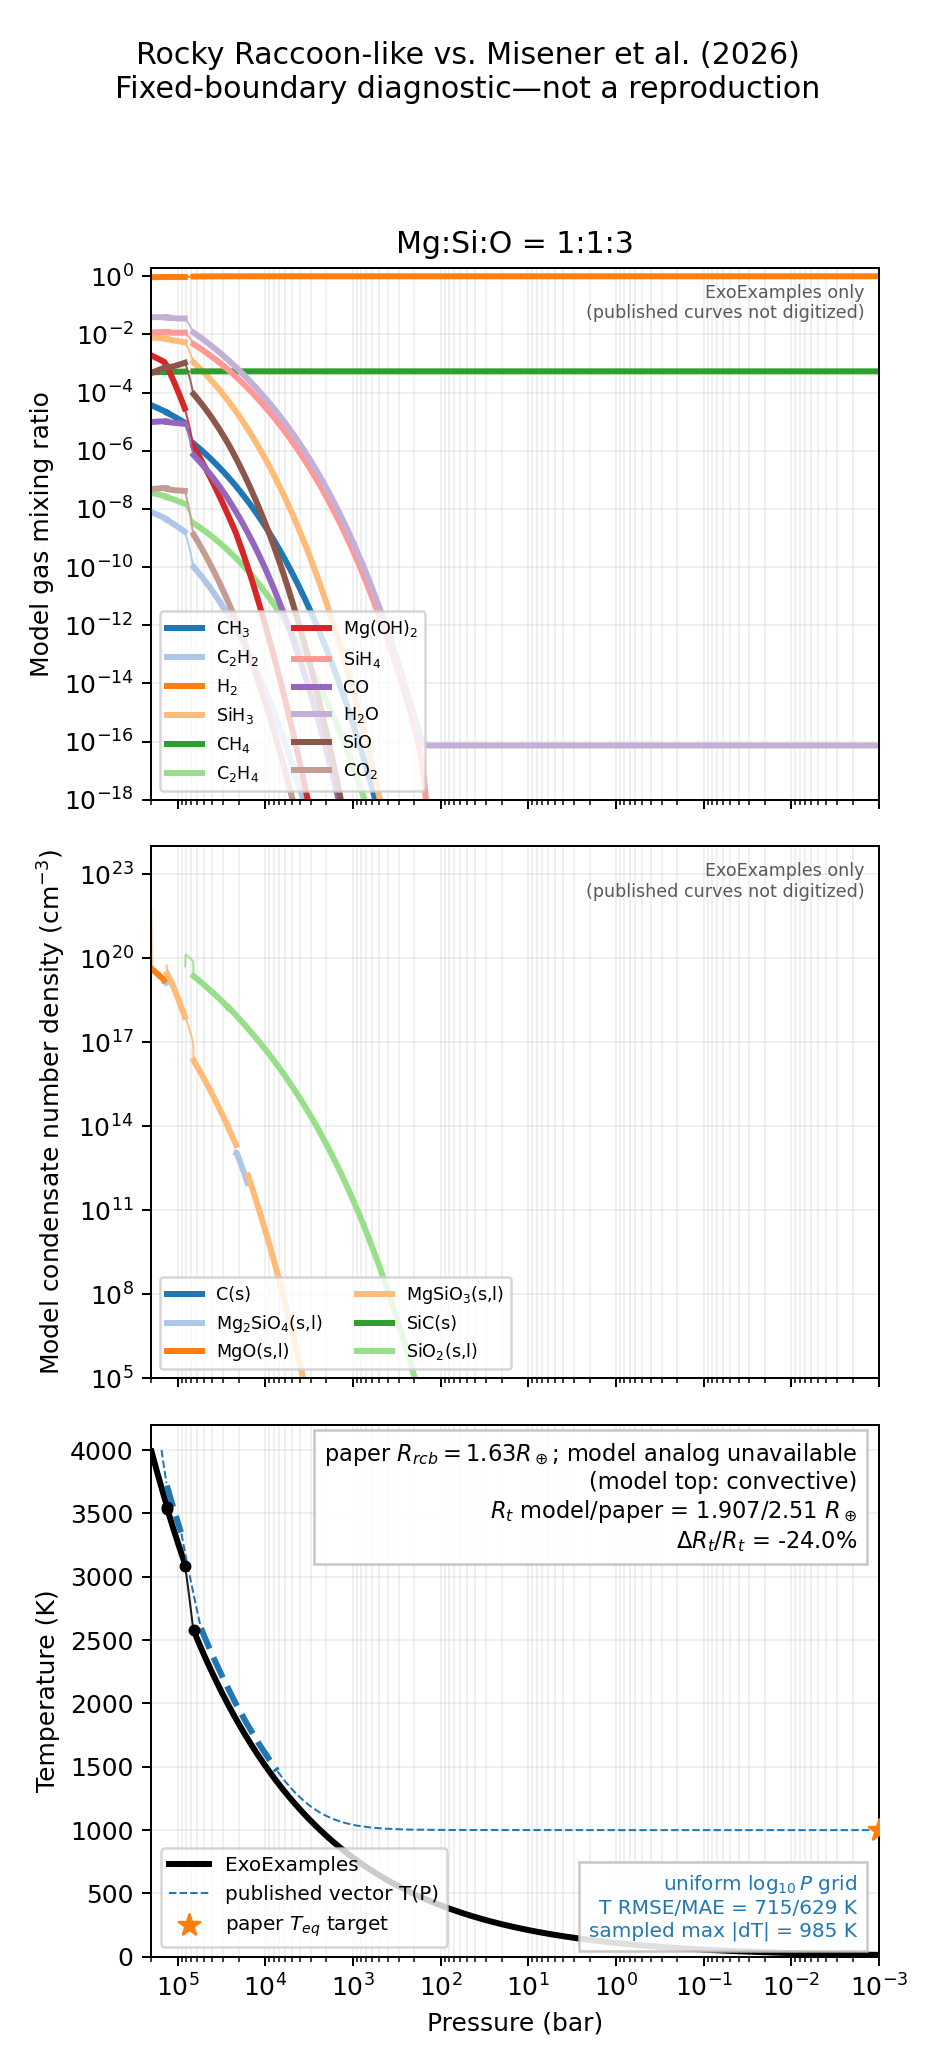
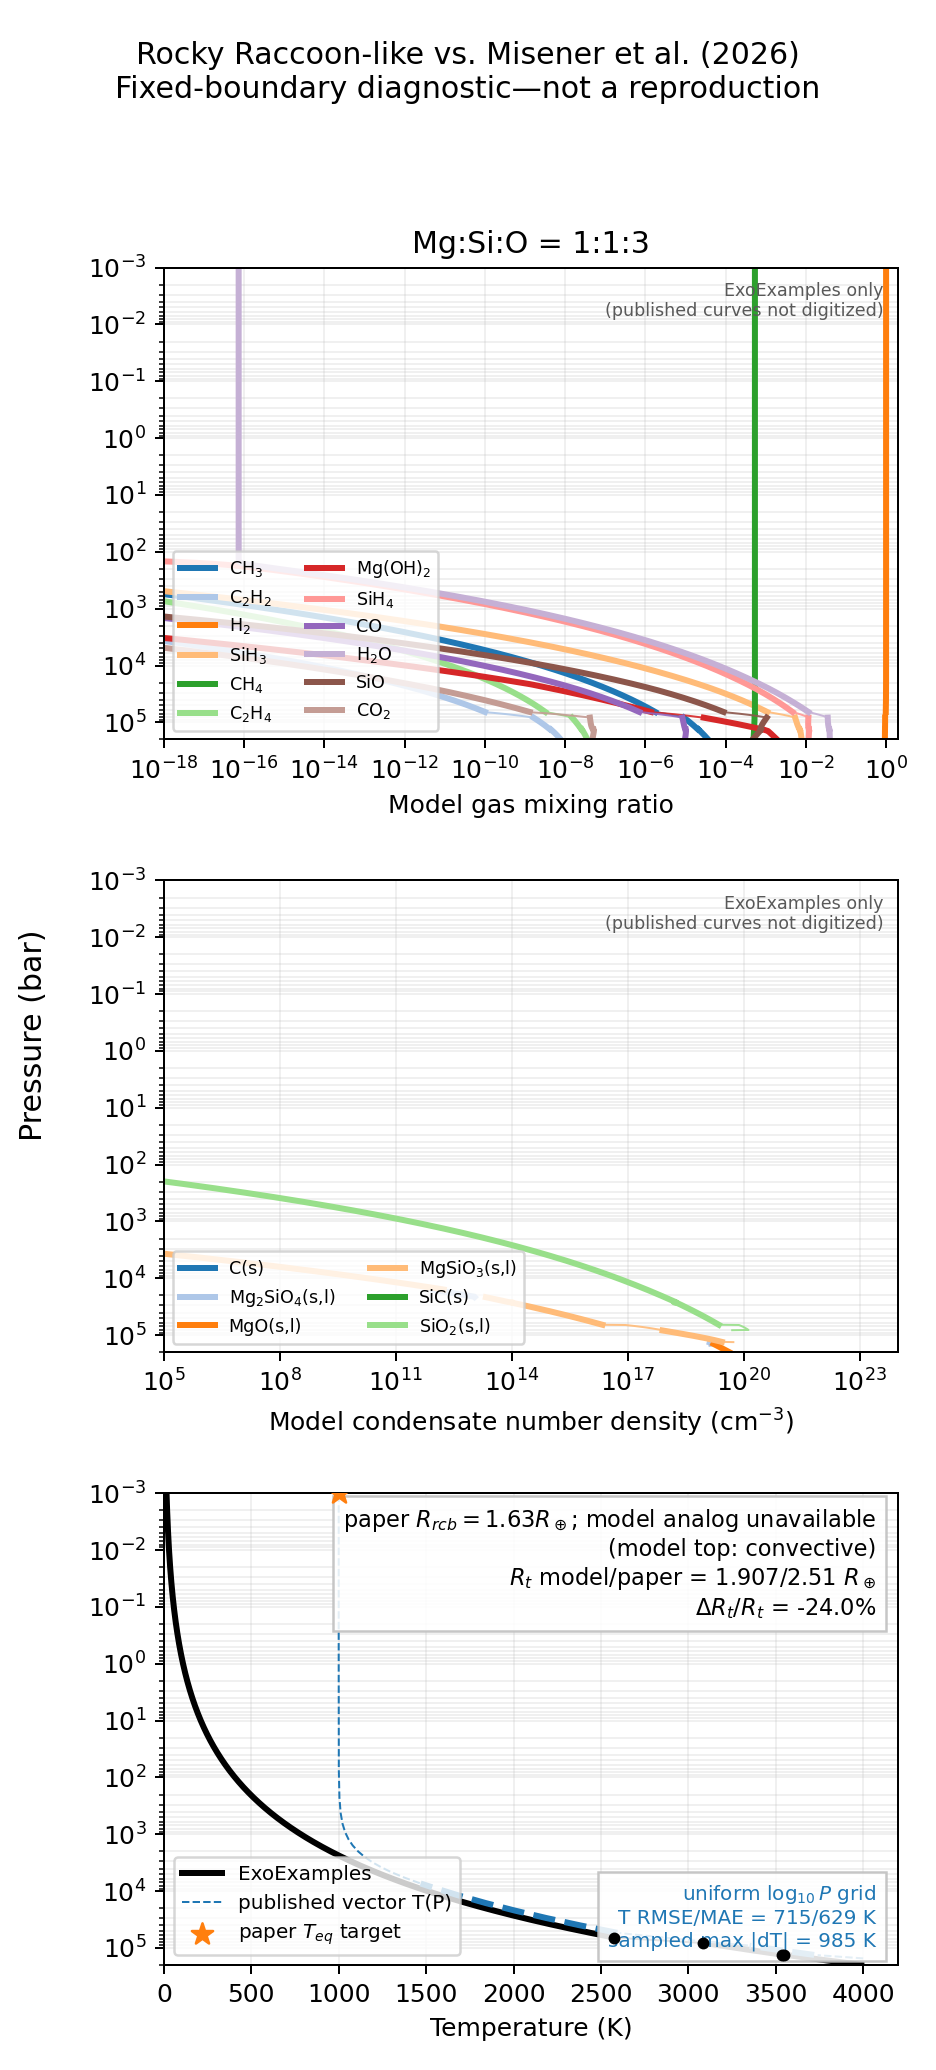
Plot Rocky profiles on vertical pressure axes

diff --git a/examples/rocky_raccoon/paper_comparison.py b/examples/rocky_raccoon/paper_comparison.py
@@ -963,11 +963,11 @@ def _plot_transport_curve(
     label: str,
 ) -> None:
     finite_values = np.asarray(values, dtype=float)
-    axis.plot(pressure, finite_values, color=color, linewidth=0.8, alpha=0.9)
+    axis.plot(finite_values, pressure, color=color, linewidth=0.8, alpha=0.9)
     convective = np.asarray(transport) == "convective"
     axis.plot(
-        pressure,
         np.where(convective, finite_values, np.nan),
+        pressure,
         color=color,
         linewidth=2.4,
         label=label,
@@ -999,8 +999,8 @@ def _plot_published_temperature(
             )
         regime = segment_transport.pop()
         axis.plot(
-            reference.pressure_bar[selected],
             reference.temperature_k[selected],
+            reference.pressure_bar[selected],
             color="tab:blue",
             linewidth=2.4 if regime == "convective" else 0.8,
             linestyle="--",
@@ -1030,8 +1030,10 @@ def plot_comparison(
         column_count,
         figsize=(5.2 * column_count, 11.5),
         squeeze=False,
-        sharex="col",
+        sharey=True,
     )
+    pressure_max = max(float(np.max(run.pressure_bar)) for run in runs)
+    pressure_min = min(float(np.min(run.pressure_bar)) for run in runs)
     color_cycle = tuple(plt.get_cmap("tab20").colors)
     for column, run in enumerate(runs):
         gas_axis, condensate_axis, temperature_axis = axes[:, column]
@@ -1114,15 +1116,15 @@ def plot_comparison(
         )
         if changes.size:
             temperature_axis.scatter(
-                run.pressure_bar[changes],
                 run.temperature_k[changes],
+                run.pressure_bar[changes],
                 color="black",
                 s=14,
                 zorder=4,
             )
         temperature_axis.scatter(
-            [PAPER_COMMON_INPUTS.top_pressure_bar],
             [PAPER_COMMON_INPUTS.equilibrium_temperature_k],
+            [PAPER_COMMON_INPUTS.top_pressure_bar],
             marker="*",
             s=80,
             color="tab:orange",
@@ -1190,16 +1192,16 @@ def plot_comparison(
             )
 
         gas_axis.set_title(_case_title(run.case))
-        gas_axis.set_yscale("log")
-        gas_axis.set_ylim(1.0e-18, 2.0)
-        condensate_axis.set_yscale("log")
-        condensate_axis.set_ylim(1.0e5, 1.0e24)
-        temperature_axis.set_ylim(0.0, 4200.0)
-        temperature_axis.set_xscale("log")
-        temperature_axis.set_xlim(
-            float(np.max(run.pressure_bar)), float(np.min(run.pressure_bar))
+        gas_axis.set_xscale("log")
+        gas_axis.set_xlim(1.0e-18, 2.0)
+        gas_axis.set_xlabel("Model gas mixing ratio")
+        condensate_axis.set_xscale("log")
+        condensate_axis.set_xlim(1.0e5, 1.0e24)
+        condensate_axis.set_xlabel(
+            r"Model condensate number density (cm$^{-3}$)"
         )
-        temperature_axis.set_xlabel("Pressure (bar)")
+        temperature_axis.set_xlim(0.0, 4200.0)
+        temperature_axis.set_xlabel("Temperature (K)")
         for axis, font_size, columns in (
             (gas_axis, 7, 2),
             (condensate_axis, 7, 2),
@@ -1209,11 +1211,11 @@ def plot_comparison(
             if handles:
                 axis.legend(fontsize=font_size, ncol=columns, loc="lower left")
         for axis in (gas_axis, condensate_axis, temperature_axis):
+            axis.set_yscale("log")
+            axis.set_ylim(pressure_max, pressure_min)
             axis.grid(alpha=0.18, which="both")
 
-    axes[0, 0].set_ylabel("Model gas mixing ratio")
-    axes[1, 0].set_ylabel(r"Model condensate number density (cm$^{-3}$)")
-    axes[2, 0].set_ylabel("Temperature (K)")
+    figure.supylabel("Pressure (bar)")
     figure.suptitle(
         "Rocky Raccoon-like vs. Misener et al. (2026)\n"
         "Fixed-boundary diagnostic—not a reproduction",

diff --git a/tests/rocky_raccoon/test_paper_comparison.py b/tests/rocky_raccoon/test_paper_comparison.py
@@ -323,6 +323,34 @@ def test_report_and_three_row_figure_record_targets_and_missing_reference(
     assert len(stored["cases"]) == 2
 
 
+def test_profile_figure_uses_pressure_as_an_upward_decreasing_vertical_axis(
+    monkeypatch,
+    tmp_path,
+):
+    run = comparison.load_completed_run(
+        _write_fake_run(tmp_path), chemistry_setup=_fake_setup()
+    )
+    original_close = comparison.plt.close
+    monkeypatch.setattr(comparison.plt, "close", lambda _figure: None)
+
+    comparison.plot_comparison(tmp_path / "profile.png", (run,), {})
+
+    figure = comparison.plt.gcf()
+    gas_axis, condensate_axis, temperature_axis = figure.axes
+    assert all(
+        axis.get_yscale() == "log"
+        and axis.get_ylim()[0] > axis.get_ylim()[1]
+        for axis in figure.axes
+    )
+    assert gas_axis.get_shared_y_axes().joined(gas_axis, temperature_axis)
+    assert gas_axis.get_xscale() == "log"
+    assert condensate_axis.get_xscale() == "log"
+    assert temperature_axis.get_xscale() == "linear"
+    assert gas_axis.get_xlabel() == "Model gas mixing ratio"
+    assert temperature_axis.get_xlabel() == "Temperature (K)"
+    original_close(figure)
+
+
 def test_detached_nonconvective_transition_is_not_compared_as_paper_rcb(
     tmp_path,
 ):

diff --git a/docs/ja/rocky_raccoon/raccoon_like_forward_ja.rst b/docs/ja/rocky_raccoon/raccoon_like_forward_ja.rst
@@ -579,8 +579,8 @@ diagnosticであり、reproduction scoreではない。
    :align: center
 
 *Figure 2 comparison。solidなgas、condensate、temperature curveはExoExamples outputである。
-dashed temperature curveは論文PDFのvector artworkから測定した。利用できないoxygen-rich
-columnを暗黙に置き換えていない。*
+dashed temperature curveは論文PDFのvector artworkから測定した。pressureはlog scaleで
+下向きに増加する。利用できないoxygen-rich columnを暗黙に置き換えていない。*
 
 .. image:: raccoon_like_forward_ja_files/raccoon_like_figure5_comparison.png
    :alt: Rocky Raccoon-like Figure 5 SiO(s) off/on comparisonと論文temperature trace
@@ -588,7 +588,7 @@ columnを暗黙に置き換えていない。*
    :align: center
 
 *Figure 5のSiO(s) sensitivity comparison。completedなfixed-boundary model columnを
-比較するものであり、論文のshooting solutionではない。*
+pressureが下向きに増加する表示で比較するものであり、論文のshooting solutionではない。*
 
 比較する量と比較しない量
 ~~~~~~~~~~~~~~~~~~~~~~~~~~

diff --git a/docs/en/rocky_raccoon/raccoon_like_forward_en.rst b/docs/en/rocky_raccoon/raccoon_like_forward_en.rst
@@ -643,7 +643,8 @@ score.
 
 *Figure 2 comparison.  Solid gas, condensate, and temperature curves are
 ExoExamples outputs.  The dashed temperature curve is measured from the
-published PDF vector artwork.  The unavailable oxygen-rich column is not
+published PDF vector artwork.  Pressure is logarithmic and increases
+downward.  The unavailable oxygen-rich column is not
 silently replaced.*
 
 .. image:: raccoon_like_forward_en_files/raccoon_like_figure5_comparison.png
@@ -652,7 +653,8 @@ silently replaced.*
    :align: center
 
 *Figure 5 SiO(s) sensitivity comparison.  It compares completed fixed-boundary
-model columns; it is not the paper's shooting solution.*
+model columns with logarithmic pressure increasing downward; it is not the
+paper's shooting solution.*
 
 What is and is not compared
 ~~~~~~~~~~~~~~~~~~~~~~~~~~~
